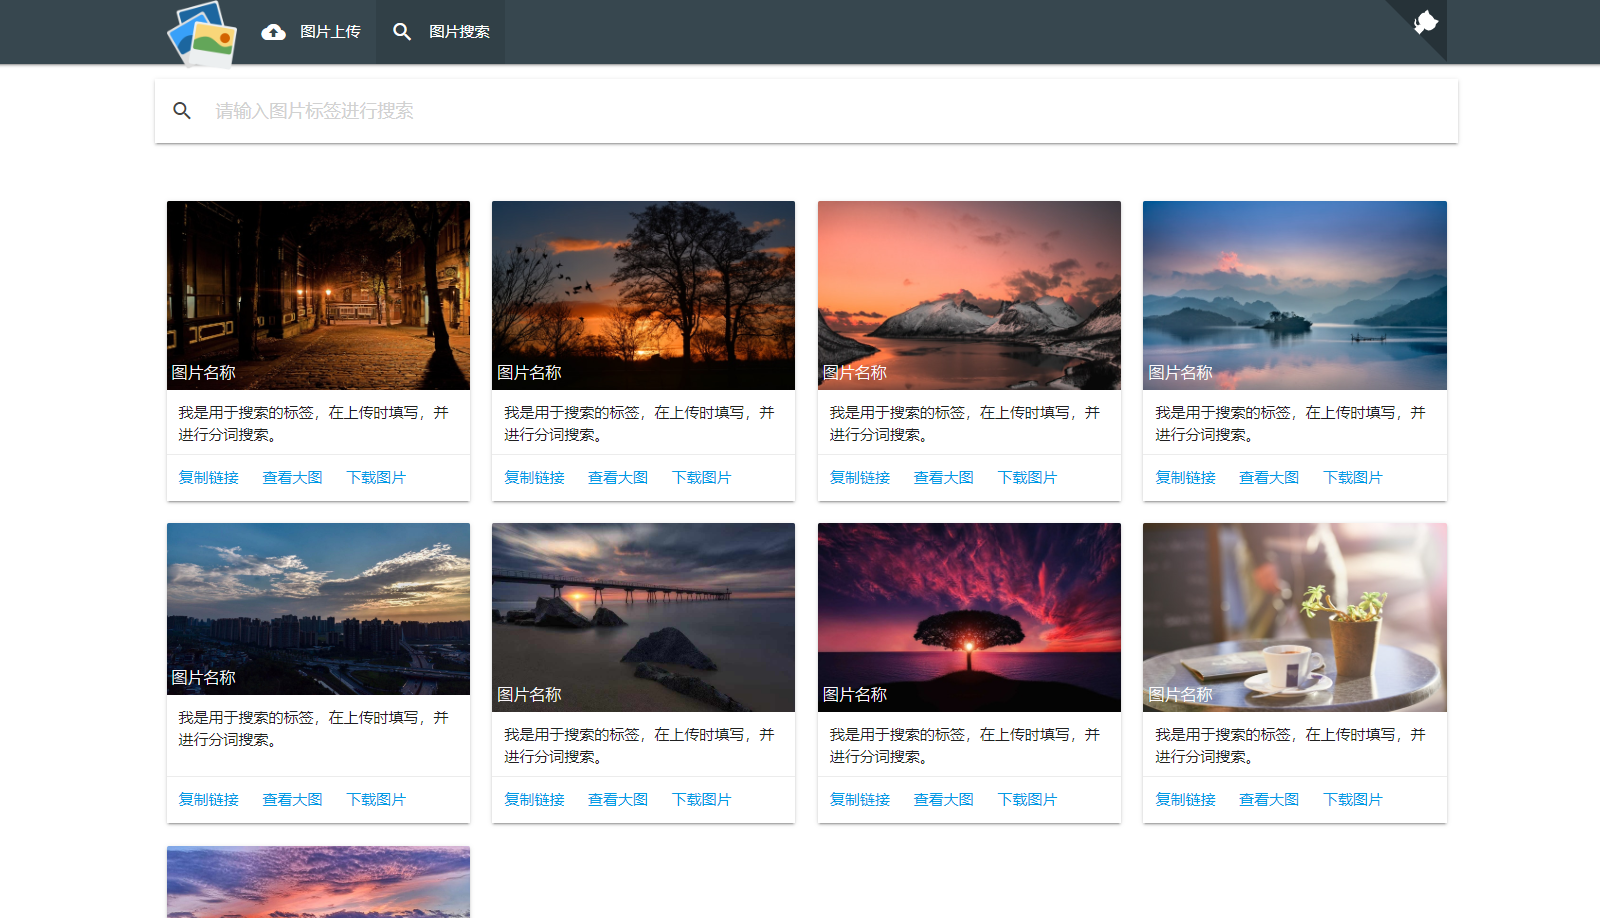
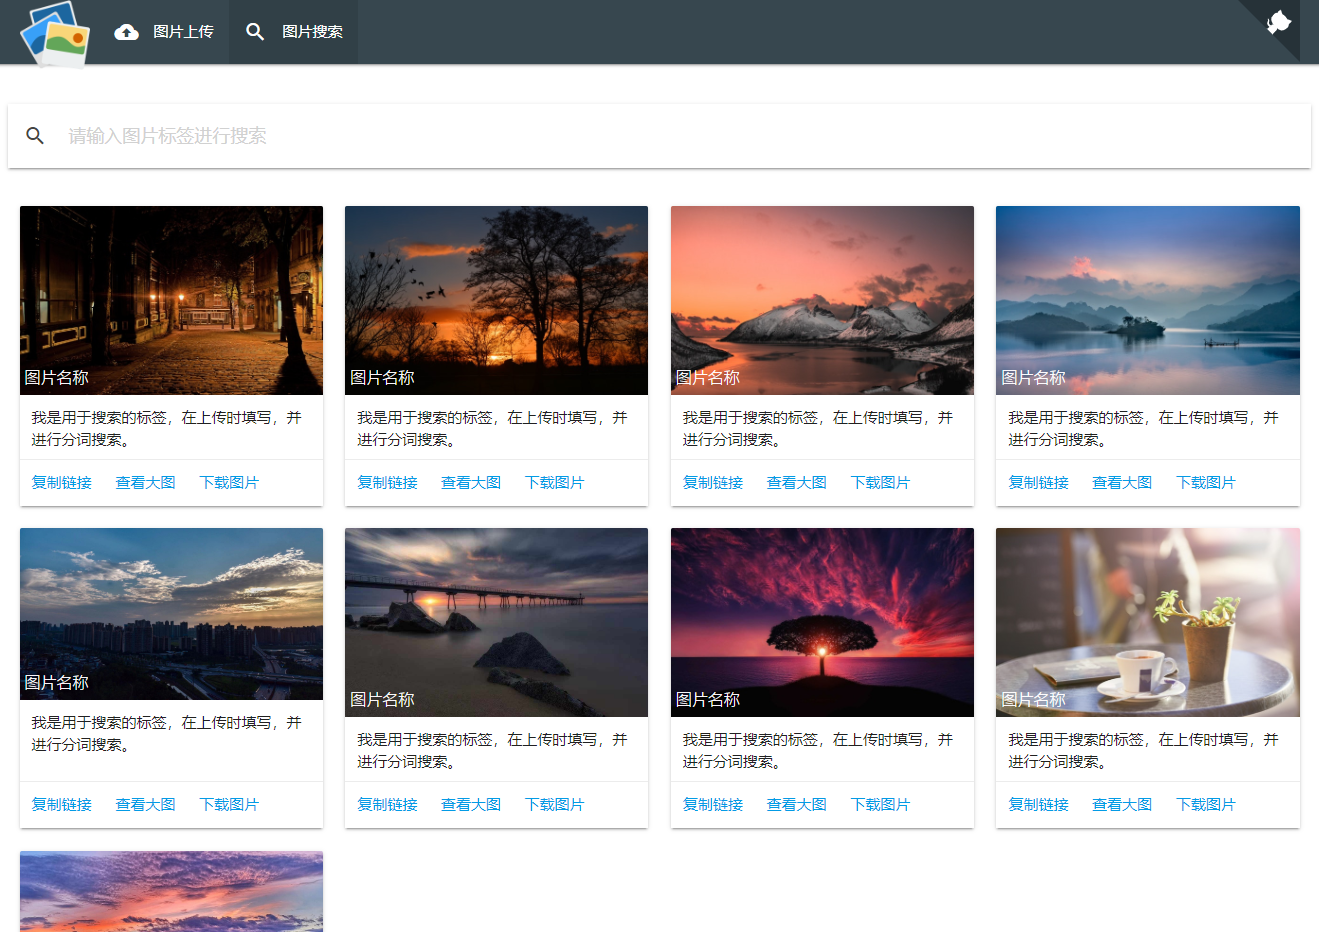
调整位置

diff --git a/src/main/resources/static/search.html b/src/main/resources/static/search.html
@@ -30,167 +30,163 @@
     </div>
 </nav>
 <div class="container">
-    <div class="section">
-        <div class="row">
-            <nav>
-                <div class="nav-wrapper">
-                    <form>
-                        <div class="input-field">
-                            <input id="search" type="search" placeholder="请输入图片标签进行搜索" required>
-                            <label class="label-icon" for="search">
-                                <i class="material-icons">search</i>
-                            </label>
-                            <i class="material-icons">close</i>
-                        </div>
-                    </form>
-                </div>
-            </nav>
-        </div>
+    <div class="row search-panel">
+        <nav>
+            <div class="nav-wrapper">
+                <form>
+                    <div class="input-field">
+                        <input id="search" type="search" placeholder="请输入图片标签进行搜索" required>
+                        <label class="label-icon" for="search">
+                            <i class="material-icons">search</i>
+                        </label>
+                        <i class="material-icons">close</i>
+                    </div>
+                </form>
+            </div>
+        </nav>
     </div>
-    <div class="section">
-        <div class="row">
-            <div class="col m3">
-                <div class="card small">
-                    <div class="card-image">
-                        <img src="images/7.jpeg">
-                        <span class="card-title">图片名称</span>
-                    </div>
-                    <div class="card-content">
-                        <p>我是用于搜索的标签，在上传时填写，并进行分词搜索。</p>
-                    </div>
-                    <div class="card-action">
-                        <a href="#">复制链接</a>
-                        <a href="#">查看大图</a>
-                        <a href="#">下载图片</a>
-                    </div>
+    <div class="row">
+        <div class="col m3">
+            <div class="card small">
+                <div class="card-image">
+                    <img src="images/7.jpeg">
+                    <span class="card-title">图片名称</span>
+                </div>
+                <div class="card-content">
+                    <p>我是用于搜索的标签，在上传时填写，并进行分词搜索。</p>
+                </div>
+                <div class="card-action">
+                    <a href="#">复制链接</a>
+                    <a href="#">查看大图</a>
+                    <a href="#">下载图片</a>
                 </div>
             </div>
-            <div class="col m3">
-                <div class="card small">
-                    <div class="card-image">
-                        <img src="images/8.jpg">
-                        <span class="card-title">图片名称</span>
-                    </div>
-                    <div class="card-content">
-                        <p>我是用于搜索的标签，在上传时填写，并进行分词搜索。</p>
-                    </div>
-                    <div class="card-action">
-                        <a href="#">复制链接</a>
-                        <a href="#">查看大图</a>
-                        <a href="#">下载图片</a>
-                    </div>
+        </div>
+        <div class="col m3">
+            <div class="card small">
+                <div class="card-image">
+                    <img src="images/8.jpg">
+                    <span class="card-title">图片名称</span>
+                </div>
+                <div class="card-content">
+                    <p>我是用于搜索的标签，在上传时填写，并进行分词搜索。</p>
+                </div>
+                <div class="card-action">
+                    <a href="#">复制链接</a>
+                    <a href="#">查看大图</a>
+                    <a href="#">下载图片</a>
                 </div>
             </div>
-            <div class="col m3">
-                <div class="card small">
-                    <div class="card-image">
-                        <img src="images/3.jpg">
-                        <span class="card-title">图片名称</span>
-                    </div>
-                    <div class="card-content">
-                        <p>我是用于搜索的标签，在上传时填写，并进行分词搜索。</p>
-                    </div>
-                    <div class="card-action">
-                        <a href="#">复制链接</a>
-                        <a href="#">查看大图</a>
-                        <a href="#">下载图片</a>
-                    </div>
+        </div>
+        <div class="col m3">
+            <div class="card small">
+                <div class="card-image">
+                    <img src="images/3.jpg">
+                    <span class="card-title">图片名称</span>
+                </div>
+                <div class="card-content">
+                    <p>我是用于搜索的标签，在上传时填写，并进行分词搜索。</p>
+                </div>
+                <div class="card-action">
+                    <a href="#">复制链接</a>
+                    <a href="#">查看大图</a>
+                    <a href="#">下载图片</a>
                 </div>
             </div>
-            <div class="col m3">
-                <div class="card small">
-                    <div class="card-image">
-                        <img src="images/4.jpg">
-                        <span class="card-title">图片名称</span>
-                    </div>
-                    <div class="card-content">
-                        <p>我是用于搜索的标签，在上传时填写，并进行分词搜索。</p>
-                    </div>
-                    <div class="card-action">
-                        <a href="#">复制链接</a>
-                        <a href="#">查看大图</a>
-                        <a href="#">下载图片</a>
-                    </div>
+        </div>
+        <div class="col m3">
+            <div class="card small">
+                <div class="card-image">
+                    <img src="images/4.jpg">
+                    <span class="card-title">图片名称</span>
+                </div>
+                <div class="card-content">
+                    <p>我是用于搜索的标签，在上传时填写，并进行分词搜索。</p>
+                </div>
+                <div class="card-action">
+                    <a href="#">复制链接</a>
+                    <a href="#">查看大图</a>
+                    <a href="#">下载图片</a>
                 </div>
             </div>
-            <div class="col m3">
-                <div class="card small">
-                    <div class="card-image">
-                        <img src="images/5.jpg">
-                        <span class="card-title">图片名称</span>
-                    </div>
-                    <div class="card-content">
-                        <p>我是用于搜索的标签，在上传时填写，并进行分词搜索。</p>
-                    </div>
-                    <div class="card-action">
-                        <a href="#">复制链接</a>
-                        <a href="#">查看大图</a>
-                        <a href="#">下载图片</a>
-                    </div>
+        </div>
+        <div class="col m3">
+            <div class="card small">
+                <div class="card-image">
+                    <img src="images/5.jpg">
+                    <span class="card-title">图片名称</span>
+                </div>
+                <div class="card-content">
+                    <p>我是用于搜索的标签，在上传时填写，并进行分词搜索。</p>
+                </div>
+                <div class="card-action">
+                    <a href="#">复制链接</a>
+                    <a href="#">查看大图</a>
+                    <a href="#">下载图片</a>
                 </div>
             </div>
-            <div class="col m3">
-                <div class="card small">
-                    <div class="card-image">
-                        <img src="images/6.jpg">
-                        <span class="card-title">图片名称</span>
-                    </div>
-                    <div class="card-content">
-                        <p>我是用于搜索的标签，在上传时填写，并进行分词搜索。</p>
-                    </div>
-                    <div class="card-action">
-                        <a href="#">复制链接</a>
-                        <a href="#">查看大图</a>
-                        <a href="#">下载图片</a>
-                    </div>
+        </div>
+        <div class="col m3">
+            <div class="card small">
+                <div class="card-image">
+                    <img src="images/6.jpg">
+                    <span class="card-title">图片名称</span>
+                </div>
+                <div class="card-content">
+                    <p>我是用于搜索的标签，在上传时填写，并进行分词搜索。</p>
+                </div>
+                <div class="card-action">
+                    <a href="#">复制链接</a>
+                    <a href="#">查看大图</a>
+                    <a href="#">下载图片</a>
                 </div>
             </div>
-            <div class="col m3">
-                <div class="card small">
-                    <div class="card-image">
-                        <img src="images/9.jpg">
-                        <span class="card-title">图片名称</span>
-                    </div>
-                    <div class="card-content">
-                        <p>我是用于搜索的标签，在上传时填写，并进行分词搜索。</p>
-                    </div>
-                    <div class="card-action">
-                        <a href="#">复制链接</a>
-                        <a href="#">查看大图</a>
-                        <a href="#">下载图片</a>
-                    </div>
+        </div>
+        <div class="col m3">
+            <div class="card small">
+                <div class="card-image">
+                    <img src="images/9.jpg">
+                    <span class="card-title">图片名称</span>
+                </div>
+                <div class="card-content">
+                    <p>我是用于搜索的标签，在上传时填写，并进行分词搜索。</p>
+                </div>
+                <div class="card-action">
+                    <a href="#">复制链接</a>
+                    <a href="#">查看大图</a>
+                    <a href="#">下载图片</a>
                 </div>
             </div>
-            <div class="col m3">
-                <div class="card small">
-                    <div class="card-image">
-                        <img src="images/10.jpg">
-                        <span class="card-title">图片名称</span>
-                    </div>
-                    <div class="card-content">
-                        <p>我是用于搜索的标签，在上传时填写，并进行分词搜索。</p>
-                    </div>
-                    <div class="card-action">
-                        <a href="#">复制链接</a>
-                        <a href="#">查看大图</a>
-                        <a href="#">下载图片</a>
-                    </div>
+        </div>
+        <div class="col m3">
+            <div class="card small">
+                <div class="card-image">
+                    <img src="images/10.jpg">
+                    <span class="card-title">图片名称</span>
+                </div>
+                <div class="card-content">
+                    <p>我是用于搜索的标签，在上传时填写，并进行分词搜索。</p>
+                </div>
+                <div class="card-action">
+                    <a href="#">复制链接</a>
+                    <a href="#">查看大图</a>
+                    <a href="#">下载图片</a>
                 </div>
             </div>
-            <div class="col m3">
-                <div class="card small">
-                    <div class="card-image">
-                        <img src="images/11.jpg">
-                        <span class="card-title">图片名称</span>
-                    </div>
-                    <div class="card-content">
-                        <p>我是用于搜索的标签，在上传时填写，并进行分词搜索。</p>
-                    </div>
-                    <div class="card-action">
-                        <a href="#">复制链接</a>
-                        <a href="#">查看大图</a>
-                        <a href="#">下载图片</a>
-                    </div>
+        </div>
+        <div class="col m3">
+            <div class="card small">
+                <div class="card-image">
+                    <img src="images/11.jpg">
+                    <span class="card-title">图片名称</span>
+                </div>
+                <div class="card-content">
+                    <p>我是用于搜索的标签，在上传时填写，并进行分词搜索。</p>
+                </div>
+                <div class="card-action">
+                    <a href="#">复制链接</a>
+                    <a href="#">查看大图</a>
+                    <a href="#">下载图片</a>
                 </div>
             </div>
         </div>

diff --git a/src/main/resources/static/css/style.css b/src/main/resources/static/css/style.css
@@ -136,6 +136,10 @@ blockquote {
 }
 
 /* search**/
+.search-panel{
+    margin-top: 40px;
+    margin-bottom: 30px;
+}
 nav .input-field label i {
     color: #444444;
 }

diff --git a/README.md b/README.md
@@ -1,5 +1,10 @@
 # 个人图床
 使用springboot+minio+elasticsearch+webuploader实现图床，支持给图片打标签，使用elasticsearch搜索，支持图片压缩，支持分片上传，秒传，断点续传
 
+## 图片上传页
+
 ![index](show/index.png)
+
+## 图片搜索页
+
 ![index](show/search.png)
